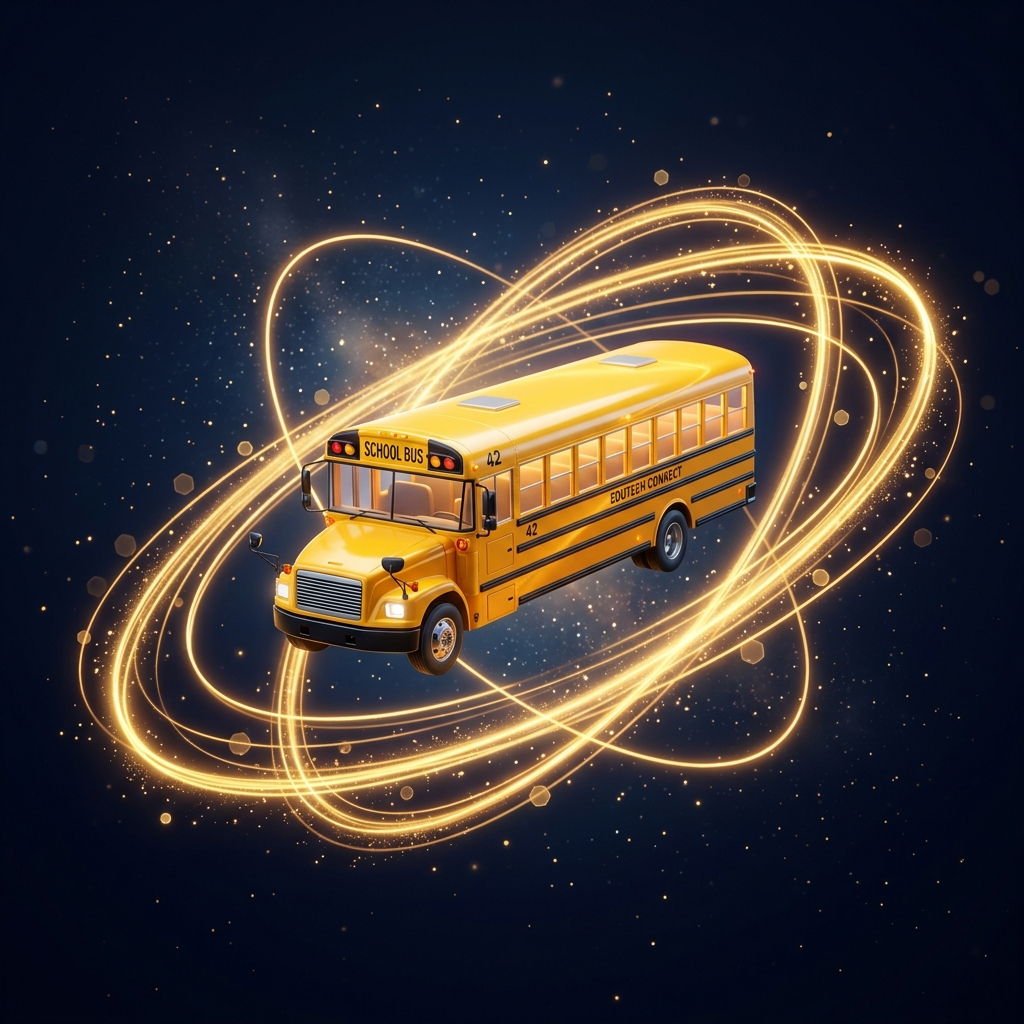
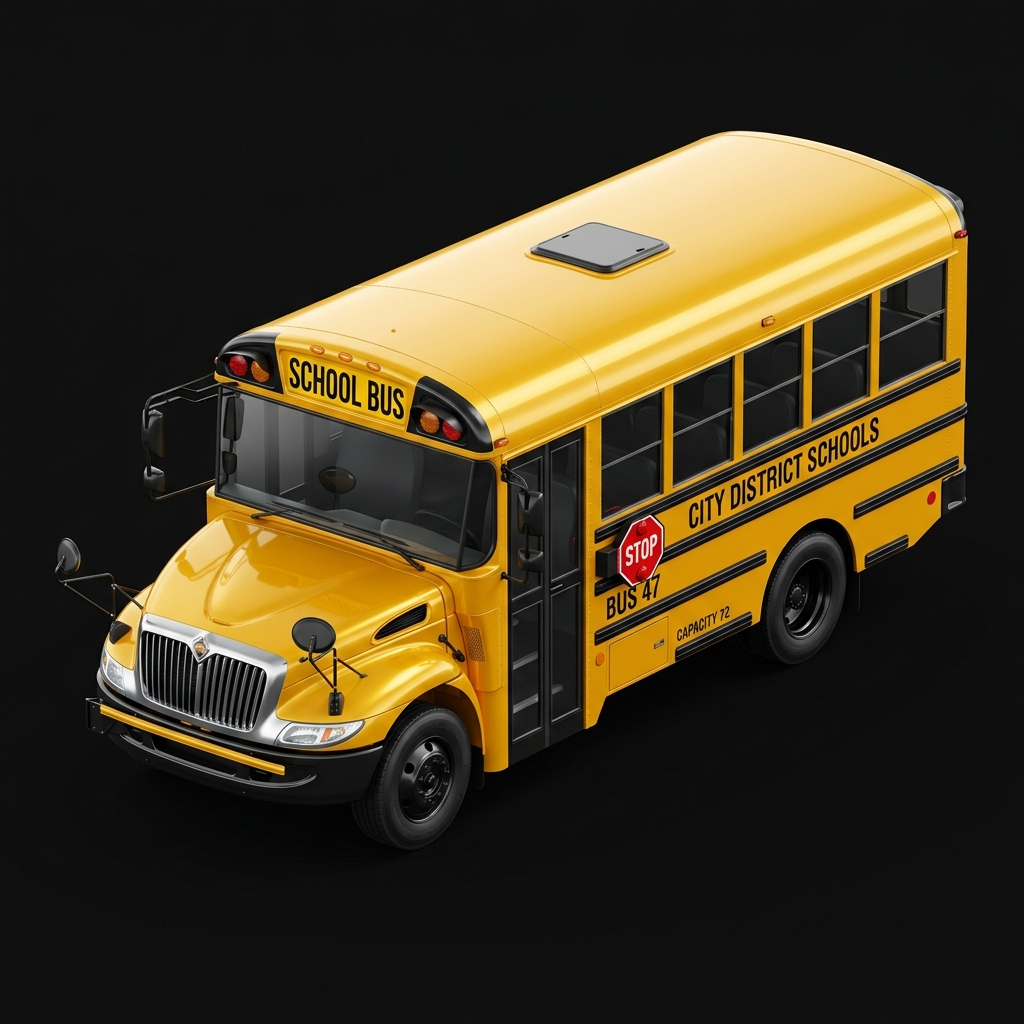
Remove star background frame from hero bus, add continuous 360-degree orbital motion animation, and make headline text sleeker & smaller

diff --git a/frontend/src/index.css b/frontend/src/index.css
@@ -327,15 +327,49 @@
   }
 }
 
-/* ── Hero Bus & CTA Styles ────────────────────────────────────────── */
-@keyframes floatBus {
-  0% { transform: translateY(0px); }
-  50% { transform: translateY(-10px); }
-  100% { transform: translateY(0px); }
+/* ── Bus Orbit & Motion Animations ────────────────────────────────── */
+@keyframes busOrbitMotion {
+  0% {
+    transform: rotate(0deg) translateX(25px) rotate(0deg) scale(0.97);
+  }
+  25% {
+    transform: rotate(90deg) translateY(-15px) rotate(-90deg) scale(1.04);
+  }
+  50% {
+    transform: rotate(180deg) translateX(-25px) rotate(-180deg) scale(0.97);
+  }
+  75% {
+    transform: rotate(270deg) translateY(15px) rotate(-270deg) scale(1.04);
+  }
+  100% {
+    transform: rotate(360deg) translateX(25px) rotate(-360deg) scale(0.97);
+  }
+}
+
+@keyframes spinOrbitRing {
+  0% { transform: rotateX(65deg) rotateZ(0deg); }
+  100% { transform: rotateX(65deg) rotateZ(360deg); }
+}
+
+@keyframes spinOrbitRingReverse {
+  0% { transform: rotateX(65deg) rotateZ(360deg); }
+  100% { transform: rotateX(65deg) rotateZ(0deg); }
+}
+
+.bus-orbit-move {
+  animation: busOrbitMotion 10s ease-in-out infinite;
+}
+
+.orbit-ring-spin {
+  animation: spinOrbitRing 16s linear infinite;
+}
+
+.orbit-ring-spin-reverse {
+  animation: spinOrbitRingReverse 12s linear infinite;
 }
 
 .heroBus {
-  animation: floatBus 4s ease-in-out infinite;
+  animation: busOrbitMotion 10s ease-in-out infinite;
 }
 
 .ctaButton {

diff --git a/frontend/src/pages/landing.tsx b/frontend/src/pages/landing.tsx
@@ -29,25 +29,32 @@ export default function Landing() {
       </header>
 
       {/* ── Hero ────────────────────────────────────────────────────── */}
-      <main className="relative z-10 flex flex-col items-center justify-center px-4 pb-10 pt-8 text-center">
-        <div className="mb-6 flex items-center justify-center">
-          <div className="relative">
+      <main className="relative z-10 flex flex-col items-center justify-center px-4 pb-8 pt-6 text-center">
+        {/* Orbital Track Container */}
+        <div className="relative mb-6 flex h-60 w-60 sm:h-72 sm:w-72 items-center justify-center overflow-visible">
+          {/* Glowing Orbit Rings */}
+          <div className="absolute inset-0 rounded-full border-2 border-amber-400/40 shadow-[0_0_35px_rgba(255,193,7,0.25)] orbit-ring-spin" style={{ transform: "rotateX(70deg) rotateY(15deg)" }} />
+          <div className="absolute inset-3 rounded-full border border-dashed border-sky-400/50 orbit-ring-spin-reverse" style={{ transform: "rotateX(65deg) rotateY(-20deg)" }} />
+
+          {/* Seamless Orbiting Bus */}
+          <div className="relative z-10 bus-orbit-move flex items-center justify-center">
             <img
               src="/hero_bus_image.png"
-              alt="Hero School Bus"
-              className="heroBus h-48 sm:h-56 md:h-64 w-auto max-w-full object-contain rounded-2xl drop-shadow-[0_20px_50px_rgba(255,208,0,0.25)] transition-transform hover:scale-105"
+              alt="OrbitTrack Hero School Bus"
+              className="h-36 sm:h-44 w-auto object-contain mix-blend-screen drop-shadow-[0_15px_35px_rgba(255,208,0,0.4)] transition-transform hover:scale-105"
             />
-            <div className="absolute -right-3 -top-2 flex h-7 w-7 items-center justify-center rounded-full bg-green-500 text-xs animate-pulse shadow-lg shadow-green-500/50">
+            <div className="absolute -right-2 -top-1 flex h-6 w-6 items-center justify-center rounded-full bg-green-500 text-[10px] animate-pulse shadow-md shadow-green-500/50">
               📍
             </div>
           </div>
         </div>
 
-        <h1 className="mb-4 text-4xl font-black tracking-tight text-white sm:text-5xl md:text-6xl max-w-3xl leading-tight">
+        {/* Headline text (adjusted to smaller size as requested) */}
+        <h1 className="mb-3 text-2xl font-black tracking-tight text-white sm:text-3xl md:text-4xl max-w-xl leading-tight">
           Track Every School Bus.{" "}
           <span className="text-[#ffd000]">Every Stop. In Real Time.</span>
         </h1>
-        <p className="mb-8 max-w-md text-base text-slate-400 leading-relaxed">
+        <p className="mb-6 max-w-md text-xs sm:text-sm text-slate-400 leading-relaxed">
           OrbitTrack connects parents, drivers and school admins with live GPS tracking, OTP boarding, geofencing alerts and smart fleet management — built for Nepal.
         </p>
 